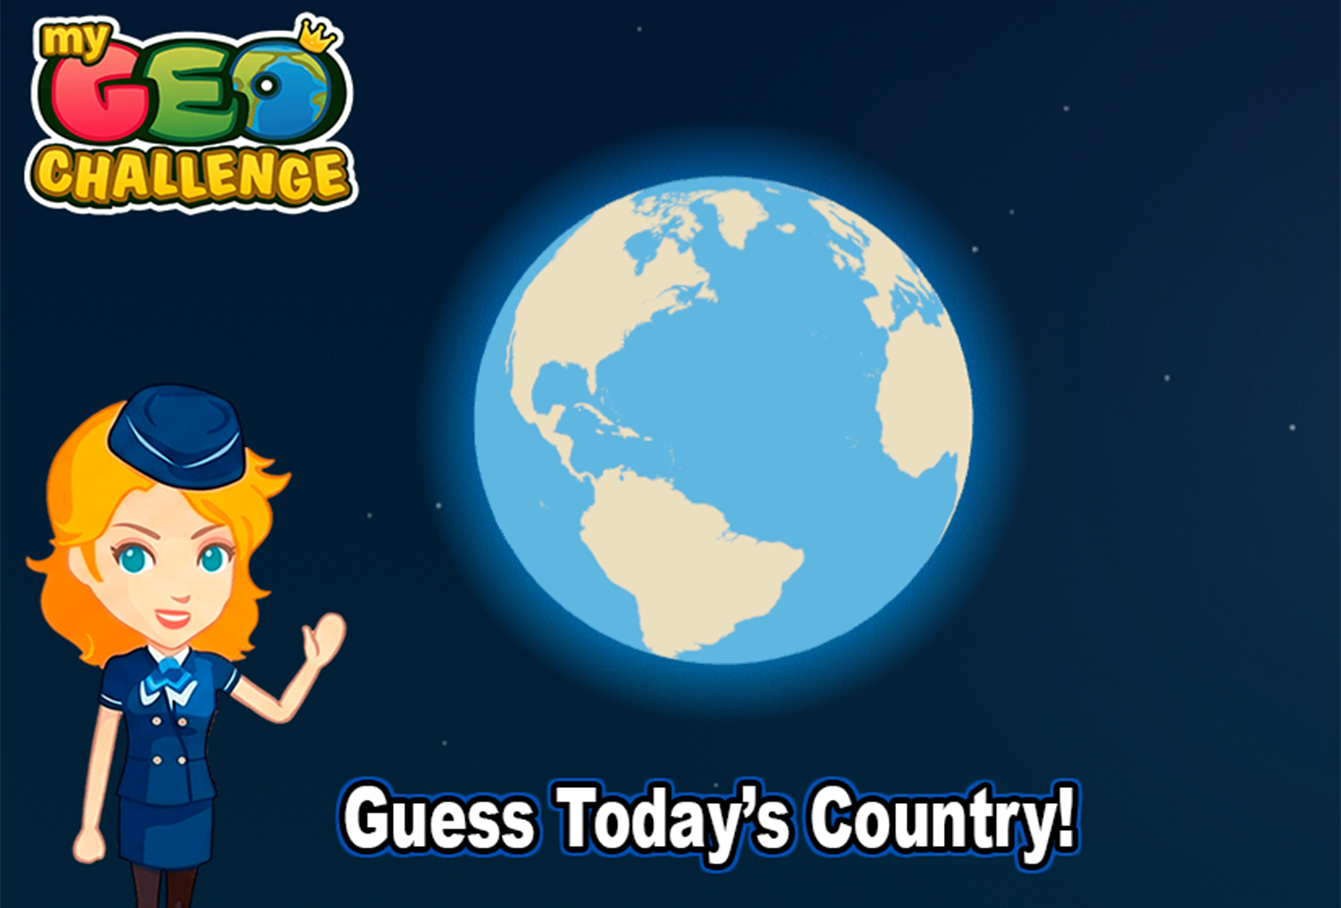
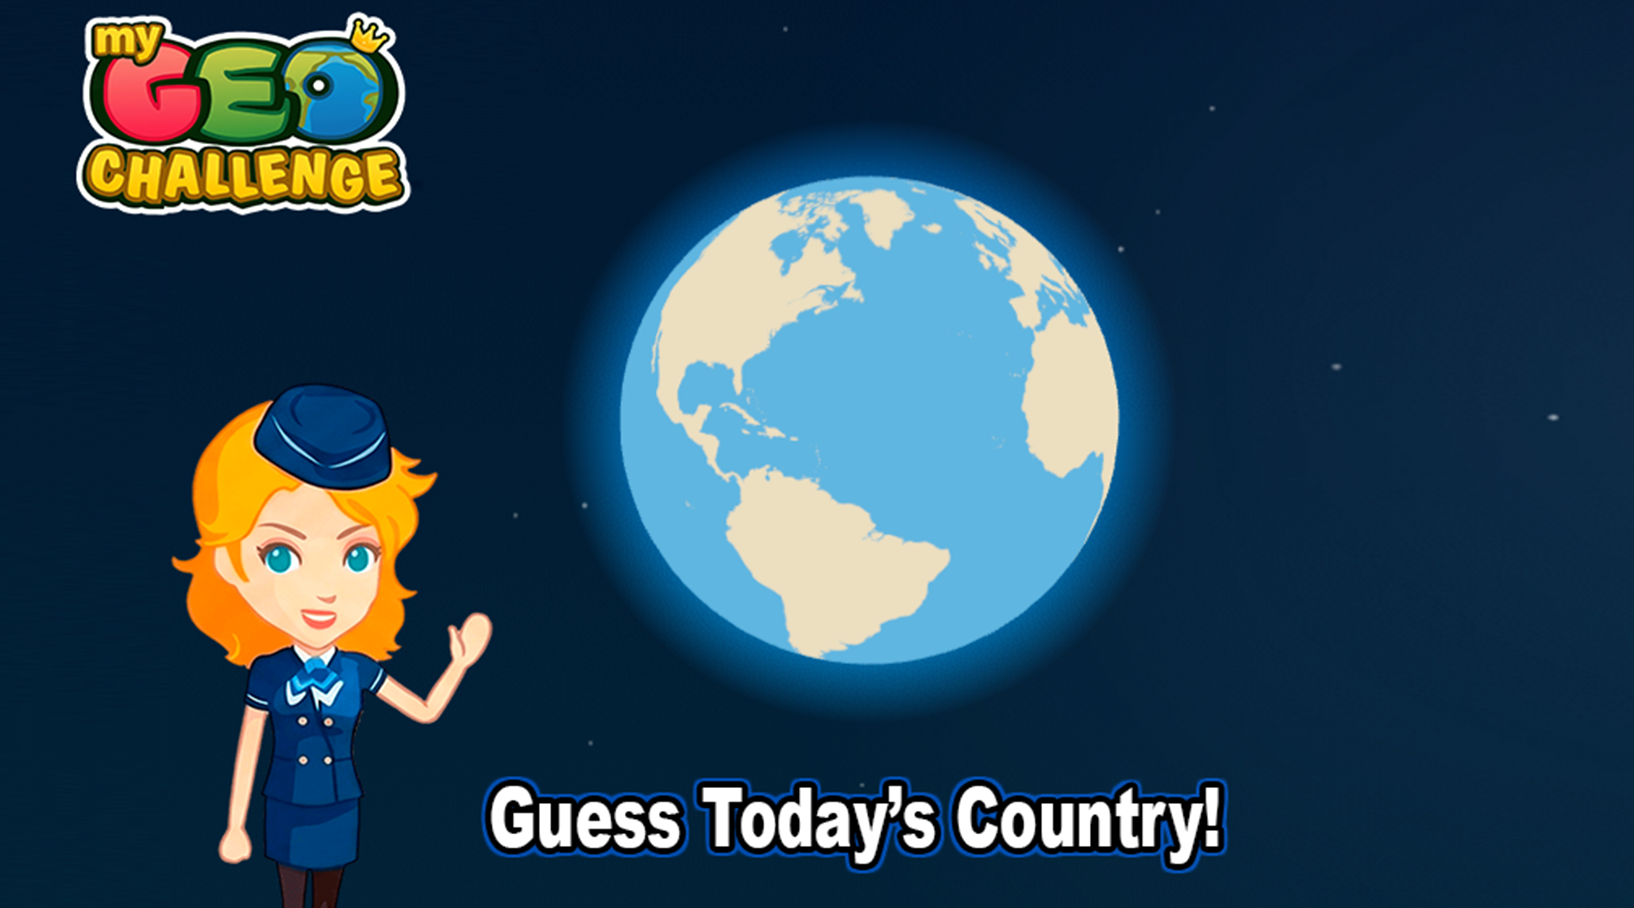
Update GlobeQuiz share preview image (1634x908) + bump og:image ?v=2
New card art; the ?v=2 on og:image/twitter:image forces X/Facebook to
re-scrape instead of serving the cached old image.

diff --git a/globequiz/index.html b/globequiz/index.html
@@ -13,12 +13,12 @@
   <meta property="og:site_name"     content="myGeoChallenge">
   <meta property="og:title"         content="GlobeQuiz — myGeoChallenge">
   <meta property="og:description"   content="One country a day. Spin the 3D globe, guess it in as few tries as possible and keep your streak alive. Can you get today's?">
-  <meta property="og:image"         content="https://mygeochallenge.com/images/globequiz-preview.png">
+  <meta property="og:image"         content="https://mygeochallenge.com/images/globequiz-preview.png?v=2">
   <meta property="og:image:alt"     content="GlobeQuiz — myGeoChallenge">
   <meta name="twitter:card"         content="summary_large_image">
   <meta name="twitter:title"        content="GlobeQuiz — myGeoChallenge">
   <meta name="twitter:description"  content="One country a day. Spin the 3D globe, guess it in as few tries as possible and keep your streak alive. Can you get today's?">
-  <meta name="twitter:image"        content="https://mygeochallenge.com/images/globequiz-preview.png">
+  <meta name="twitter:image"        content="https://mygeochallenge.com/images/globequiz-preview.png?v=2">
 
   <!-- Humans go straight into the game (JS redirect); social crawlers don't
        run JS, so they stay on this page and read the card above. No
